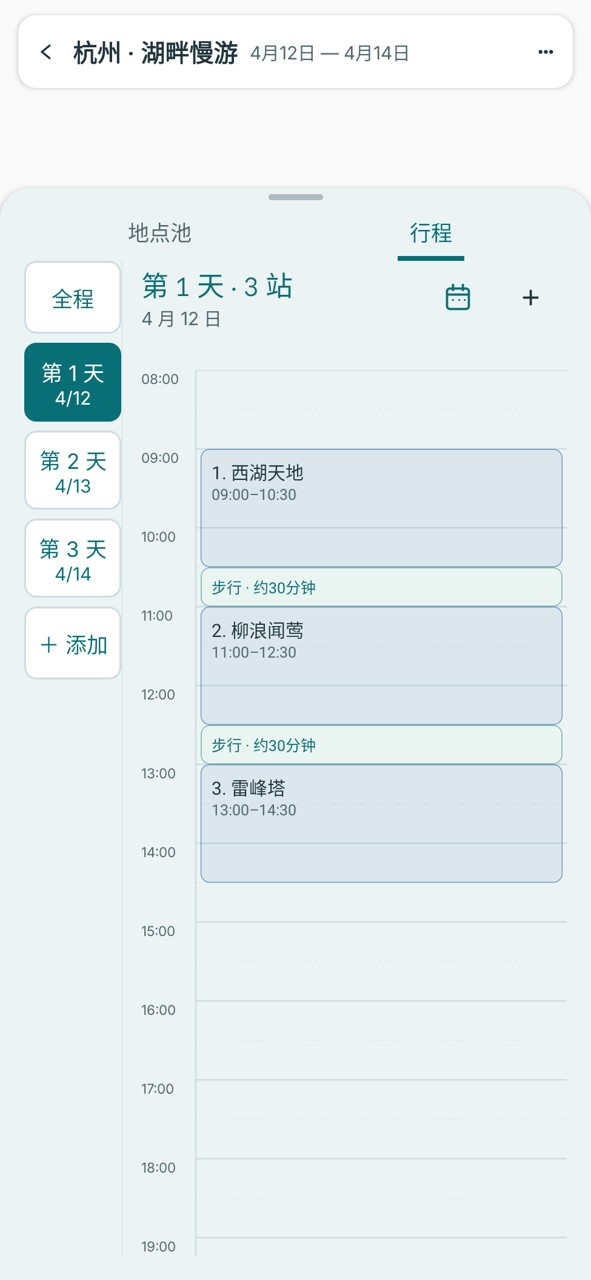
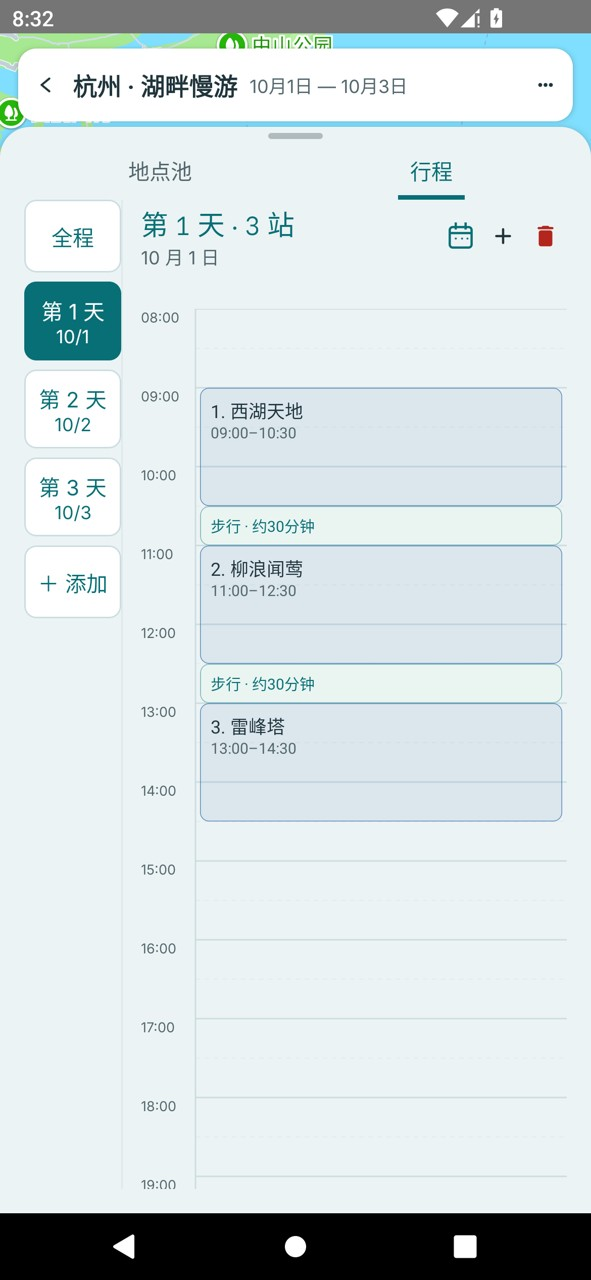
docs: 基于最新代码刷新 README 全部截图

diff --git a/docs/images/README.md b/docs/images/README.md
@@ -1,32 +1,32 @@
 # README 图片来源
 
-图片来自 Easy Trip 的模拟器运行截图或应用实际导出的 PNG，统一使用中国地点的测试示例数据：首页为杭州、苏州，其余为杭州行程。不是设计稿或真实用户旅行。地图使用真实高德底图；地点安排、路线连线和交通时长为示例数据，不代表实际路线规划结果。
+本目录全部 10 张图片于 **2026-09-23** 重新采集或生成，未沿用旧版截图。运行来源为最新 `origin/main` 提交 [`d267f45`](https://github.com/chengweiv5/easy-trip/commit/d267f453a94ca836ce854c162bcb6113334d686f) 的 Debug 构建，应用版本号为 1.4.0，包含 v1.4.0 正式发布之后的工作台修复（日期操作按钮等距、红色删除图标、抽屉切换保持地图视角等）。
 
-原始截图、采集入口与验证记录保存在本机 `.scratch/`；本目录图片均可独立查看。日历截图使用生产工作台组件，展开日历后的上方地图区域未挂载地图；分享截图则实际加载高德 SDK。
+所有界面来自专用只读模拟器 `emulator-5586` 的同一次应用运行，分辨率 1170 × 2532、密度 480 dpi、字体比例 1.0。临时采集入口 `LatestReadmeCaptureTest.allReadmeScreensFromProductionNavigation` 使用生产 `AppNavigation`、Room 仓库、真实高德地图 SDK 和分享渲染器，通过点击、滑动依次进入各功能界面。
 
-| 图片 | 运行来源与版本 | 原始尺寸 | 处理 |
+示例保存在内存数据库：首页为杭州、苏州两趟旅行，其余均为同一份「杭州 · 湖畔慢游」三天、九站行程。图片不是设计稿或真实用户旅行；地图使用真实高德底图，地点坐标、路线连线、距离与交通时长为测试数据，不代表实际路线规划结果。
+
+| 图片 | 内容与采集方式 | 原始尺寸 | 入库处理 |
 | --- | --- | --- | --- |
-| `my-trips.jpg` | v1.2.0；`TripListContentTest.otherTripRowKeepsSingleEntrySemanticsWithSeparateMenuAndDecorativeArrow`；基于 `650de5f`，仅将首页测试示例改为杭州、苏州后重新运行截图 | 1170 × 2532 | 等比缩至 591 × 1280，无裁切 |
-| `map-itinerary.jpg` | v1.2.0；`LakesideWorkspaceVisualTest.realMapKeepsLakesideChromeAcrossPoolAndItinerary`；`7026cf8`，真实高德地图 | 1280 × 2856 | 等比缩至 574 × 1280，无裁切 |
-| `itinerary-note.jpg` | v1.2.0；`V12ItineraryPolishTest.itineraryNoteExpandsInPlaceAndUpdatedNoteResetsExpansion`；基于 `d79255d` 加备注一行预览、停留时长行展开收起和暖棕配色修改 | 1170 × 2532 | 保留左上角 1170 × 510 区域，仅去掉下方空白，再等比缩至 640 × 279 |
-| `place-pool.jpg` | v1.4.0；2026-09-23 在 emulator-5588 运行 `LakesideWorkspaceVisualTest.realMapKeepsLakesideChromeAcrossPoolAndItinerary`，真实高德地图 | 1073 × 2321 | 等比缩至 592 × 1280，无裁切 |
-| `itinerary-calendar-day.jpg` | v1.4.0；基于 `57ea6cf`，临时 `ReadmeScreenshotCaptureTest.calendarScreens`，生产 `TripWorkspaceContent` 与三天内存示例 | 975 × 2110 | 等比缩至 591 × 1280，无裁切 |
-| `itinerary-calendar-whole.jpg` | 同上，切换到全程后采集；首屏并列展示第 1、2 天 | 975 × 2110 | 等比缩至 591 × 1280，无裁切 |
-| `share-preview.jpg` | v1.4.0；基于 `57ea6cf`，临时 `ReadmeScreenshotCaptureTest.sharePreviewWithRealMap`；生产 `ItineraryShareScreen`、高德 SDK 与 `shareFixture()` | 1073 × 2123 | 等比缩至 647 × 1280，无裁切 |
-| `share-long-image.png` | v1.4.0；2026-09-23 运行 `ShareMapCaptureTest.realSdkCaptureUnderOpaquePreviewRetainsMapAndCleansUpView`；生产 `ShareImageRenderer`、高德 SDK 与三天 `shareFixture()` | 1080 × 7159 | 原始完整 PNG，保留三天、地图、交通、备注及页脚，无缩放或裁切 |
-| `share-long-image-detail.jpg` | 上述完整长图的摘要与第 1 天，用于 README 内联展示 | 1080 × 7159 | 保留顶部 1080 × 2650 区域，止于第 1 天分隔线之后，等比缩至 734 × 1800；点击链接查看完整 PNG |
-| `itinerary-time-edit.jpg` | v1.4.0 时间编辑组件；复用 emulator-5588 留存的 `itinerary-time-wheel-am.png`，杭州西湖天地示例 | 990 × 1431 | 等比缩至 886 × 1280，无裁切 |
+| `my-trips.jpg` | 应用首页，展示两趟旅行与杭州行程准备度 | 1170 × 2532 | 等比缩至 591 × 1280，无裁切 |
+| `place-pool.jpg` | 从首页打开杭州旅行后的地点池与真实地图 | 1170 × 2532 | 等比缩至 591 × 1280，无裁切 |
+| `map-itinerary.jpg` | 切换行程与第 1 天，展示地图、行程及最新日期操作按钮 | 1170 × 2532 | 等比缩至 591 × 1280，无裁切 |
+| `itinerary-note.jpg` | 展开工作台备注，采集完整的西湖天地行程条目 | 843 × 384 | 原尺寸 JPEG，无裁切 |
+| `itinerary-time-edit.jpg` | 从地点菜单打开时间编辑面板，保留工作台背景及全部操作 | 1170 × 2532 | 等比缩至 591 × 1280，无裁切 |
+| `itinerary-calendar-day.jpg` | 工作台切换单日时间日历，地图保持挂载 | 1170 × 2532 | 等比缩至 591 × 1280，无裁切 |
+| `itinerary-calendar-whole.jpg` | 切换全程日历，首屏并列展示第 1、2 天 | 1170 × 2532 | 等比缩至 591 × 1280，无裁切 |
+| `share-preview.jpg` | 从工作台菜单进入分享预览，包含备注并完成地图生成 | 1170 × 2532 | 等比缩至 591 × 1280，无裁切 |
+| `share-long-image.png` | 上述分享预览实际生成的完整 PNG，直接复制应用缓存文件 | 1080 × 6444 | 原文件，保留全部三天、地图、交通、备注及页脚，无缩放或裁切 |
+| `share-long-image-detail.jpg` | 本次完整长图的旅行摘要与第 1 天，用于 README 内联展示 | 1080 × 6444 | 保留顶部 1080 × 2510 区域，止于第 1 天分隔线之后、第 2 天标题之前，等比缩至 775 × 1800；链接指向完整 PNG |
 
-原始证据路径：
+处理方式：Pillow 等比缩放，JPEG quality 90、optimize。未重绘或覆盖界面文字，未拉伸截图。长图细节只截取完整内容段；完整导出 PNG 同时入库，并校验与应用原始输出字节一致。
 
-- `.scratch/readme-china-examples-20260921/my-trips.png`
-- `.scratch/v1.2.0-itinerary-polish/v11-workspace-itinerary.png`
-- `.scratch/note-warm-brown-20260921/evidence/itinerary-note-expanded.png`
-- `.scratch/readme-feature-screenshots/evidence/place-pool.png`
-- `.scratch/readme-feature-screenshots/evidence/itinerary-calendar-day.png`
-- `.scratch/readme-feature-screenshots/evidence/itinerary-calendar-whole.png`
-- `.scratch/readme-feature-screenshots/evidence/share-preview-with-map.png`
-- `.scratch/readme-feature-screenshots/evidence/share-long-image.png`
-- `.scratch/readme-feature-screenshots/evidence/itinerary-time-edit.png`
+本机追溯记录：
 
-处理方式：Pillow 等比缩放，JPEG quality 88–90、optimize；没有在截图上重绘、覆盖文字或拉伸界面。长图细节只截取完整内容段，完整导出 PNG 同时入库。临时截图入口仅采集内存示例，已从应用源码目录移除，保留在 `.scratch/readme-feature-screenshots/ReadmeScreenshotCaptureTest.kt` 供追溯；没有改动应用功能。
+- `.scratch/readme-latest-screenshots/LatestReadmeCaptureTest.kt`：临时采集入口归档，已从应用源码目录移除。
+- `.scratch/readme-latest-screenshots/evidence/latest/raw/`：本次全部原始 PNG 与采集清单，每张记录运行版本、提交 SHA、尺寸和时间。
+- `.scratch/readme-latest-screenshots/evidence/latest/build-provenance.json`：构建基线、模拟器与 APK SHA256。
+- `.scratch/readme-latest-screenshots/evidence/latest/image-verification.json`：全部图片的新旧 SHA256、原始尺寸与入库尺寸。
+- `.scratch/readme-latest-screenshots/evidence/latest/`：构建、截图用例、OCR、README 排版及推送回读记录。
+
+本次只更新文档和图片，未修改应用功能代码；采集过程使用专用模拟器与内存示例，未操作物理设备。

diff --git a/README.md b/README.md
@@ -24,7 +24,7 @@ Easy Trip 支持**同一地点重复加入行程**。酒店、餐厅、景点，
 
 从出门到回酒店，把当天每一站和往返交通都规划进去。收藏地点、调整顺序、查看路线，专心把自己的旅行安排好。
 
-> 当前正式版为 **[v1.4.0](https://github.com/chengweiv5/easy-trip/releases/tag/v1.4.0)**，新增行程长图分享，并优化日历拖动调时和交通显示，可在发布页下载 APK。下方展示主要功能界面及实际导出的长图，图片均可点击放大。
+> 当前正式版为 **[v1.4.0](https://github.com/chengweiv5/easy-trip/releases/tag/v1.4.0)**，新增行程长图分享，并优化日历拖动调时和交通显示，可在发布页下载 APK。下方全部截图于 2026-09-23 从最新 `main` 源码（`d267f45`）构建运行后重新采集，包含正式版之后的工作台界面优化，图片均可点击放大。
 
 ## 旅行计划，不用在清单和地图之间来回切换
 
@@ -36,13 +36,13 @@ Easy Trip 支持**同一地点重复加入行程**。酒店、餐厅、景点，
   <a href="docs/images/map-itinerary.jpg"><img src="docs/images/map-itinerary.jpg" width="240" alt="地图与每日行程同屏：地点序号对应，路线段显示交通方式、距离与预计耗时"></a>
 </div>
 
-**我的旅行**（v1.2.0 源码运行截图） · 管理下一次出发，也保留已经走过的旅程。
+**我的旅行** · 管理下一次出发，也保留已经走过的旅程。
 
-**地点池**（v1.4.0 运行截图） · 先收藏想去的地方，按城市整理，再加入每天的行程。
+**地点池** · 先收藏想去的地方，按城市整理，再加入每天的行程。
 
-**地图行程工作台**（v1.2.0 源码运行截图） · 上方看地图，下方排日程，序号对应每个地点。
+**地图行程工作台** · 上方看地图，下方排日程，序号对应每个地点。
 
-*截图使用模拟器中的中国地点示例：首页为杭州、苏州，其余为杭州行程。版本与采集方式见[图片来源](docs/images/README.md)。*
+*全部截图来自同一次模拟器运行：首页为杭州、苏州，其余为同一份杭州三天示例行程。使用真实高德底图，地点坐标、路线连线和交通时长为测试示例。版本与采集方式见[图片来源](docs/images/README.md)。*
 
 ### 用行程日历，看清每天的节奏
 
@@ -55,7 +55,7 @@ Easy Trip 支持**同一地点重复加入行程**。酒店、餐厅、景点，
 
 **单日时间轴** · 调整当天安排。 **全程日历** · 并排比较每天的节奏。
 
-*v1.4.0 运行截图，使用示例行程；全程日历为只读视图。*
+*最新源码运行截图，使用示例行程；全程日历为只读视图。*
 
 ### 把完整行程，变成一张可以分享的长图
 
@@ -68,7 +68,7 @@ Easy Trip 支持**同一地点重复加入行程**。酒店、餐厅、景点，
 
 **分享预览** · 先确认内容，再保存或分享。 **长图效果** · 右图展示摘要与第 1 天，[点击查看完整三天长图](docs/images/share-long-image.png)。
 
-*v1.4.0 运行与导出示例，使用真实高德底图及测试行程；路线连线和交通时长为示例数据。完整 PNG 保留全部三天内容。*
+*最新源码运行与导出示例，使用真实高德底图及测试行程；路线连线和交通时长为示例数据。完整 PNG 保留全部三天内容。*
 
 <a id="features"></a>
 
@@ -89,9 +89,9 @@ Easy Trip 支持**同一地点重复加入行程**。酒店、餐厅、景点，
 
 门票预约、入园提醒、酒店入住安排，都可以留在对应地点旁。行程与地点池用暖棕色区分备注，默认显示一行，长内容可原位展开、收起。行程中的切换入口放在停留时长右侧，备注展开前后保持同宽；地点池的入口与备注同行，都不额外增加按钮行。全程合并连续重复地点时，也会保留各次到访的备注。
 
-<a href="docs/images/itinerary-note.jpg"><img src="docs/images/itinerary-note.jpg" width="520" alt="v1.2.0 备注展开示例：在西湖行程下直接查看预约、入园、日落和返程提醒"></a>
+<a href="docs/images/itinerary-note.jpg"><img src="docs/images/itinerary-note.jpg" width="520" alt="行程备注展开：在西湖天地条目下直接查看开放时间、饮水、日落和返程提醒"></a>
 
-*运行截图的局部细节，仅裁去了下方空白。*
+*工作台中展开备注后的完整行程条目截图。*
 
 ### 到达几点、停留多久，顺手调好
 
@@ -99,7 +99,7 @@ Easy Trip 支持**同一地点重复加入行程**。酒店、餐厅、景点，
 
 <a href="docs/images/itinerary-time-edit.jpg"><img src="docs/images/itinerary-time-edit.jpg" width="360" alt="行程时间编辑：上午下午切换、到达时间和停留时长滚轮、备注，以及再次安排同一地点的入口"></a>
 
-*v1.4.0 时间编辑组件运行截图。*
+*工作台中打开时间编辑面板的完整运行截图。*
 
 ## 三步，安排一次出发
 

diff --git a/.codex/TASK_STATE.md b/.codex/TASK_STATE.md
@@ -1,3 +1,17 @@
+# README 全部截图刷新
+
+状态：DONE（2026-09-23，全部截图重新采集与文档验证完成）
+
+已从最新 origin/main d267f453a94ca836ce854c162bcb6113334d686f 构建并在专用只读模拟器 emulator-5586 运行 App，替换 README 全部 10 张图片。包含正式版 v1.4.0 之后的日期按钮等距、红色删除图标及地图视角修复。所有界面来自同一次生产 AppNavigation 流程与同一份杭州三天内存示例。
+
+验证：Debug 与 AndroidTest 构建成功；整套导航截图用例通过；9 份原始图片的采集 SHA 均为 d267f45，全部 10 张入库图片与旧版哈希不同；完整分享 PNG 与应用本次导出字节一致；OCR 关键文字、14 个本地链接、1024px / 390px 排版和图片比例检查通过。已逐张检查最新日期操作按钮、日历、备注、时间编辑、分享与完整三天页脚。临时采集入口已归档移除，无应用代码改动。
+
+分支：codex/readme-latest-all-screenshots。原始图片、构建来源、采集入口、OCR、排版与回滚说明：.scratch/readme-latest-screenshots/verification.md。最终提交与远端交付结果以 .scratch/readme-latest-screenshots/evidence/latest/push-verification.json 为准。备份：.scratch/readme-latest-screenshots/before/。
+
+---
+
+## 之前的任务记录
+
 # README 主要功能界面截图
 
 状态：DONE（2026-09-23，内容与截图验证完成）
